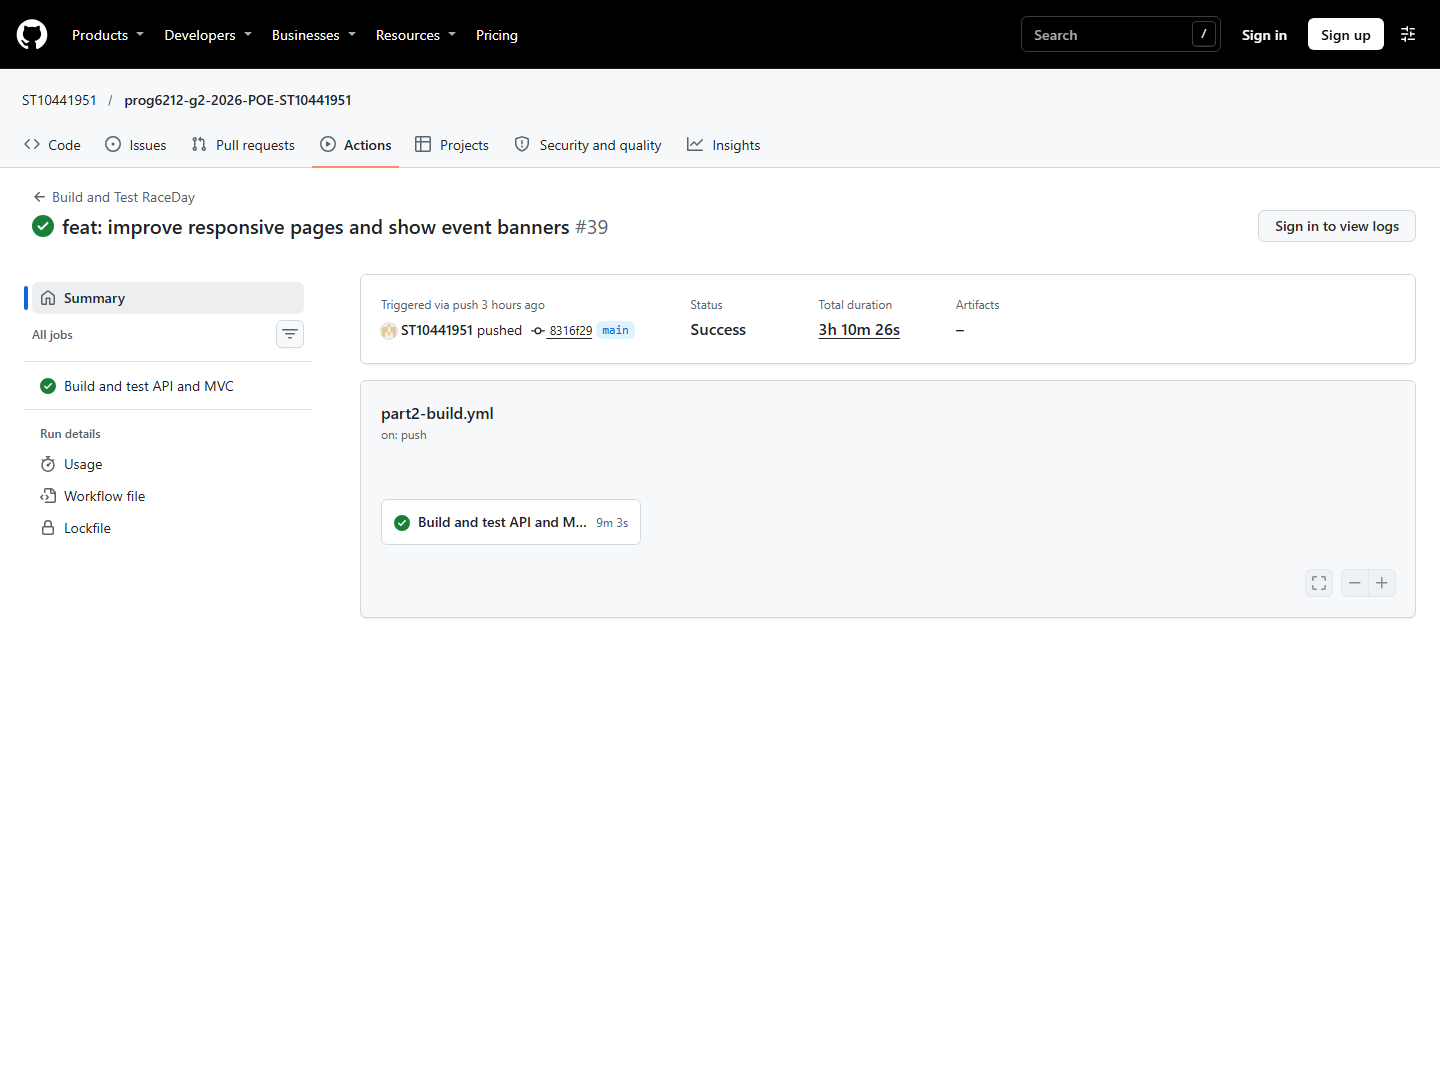
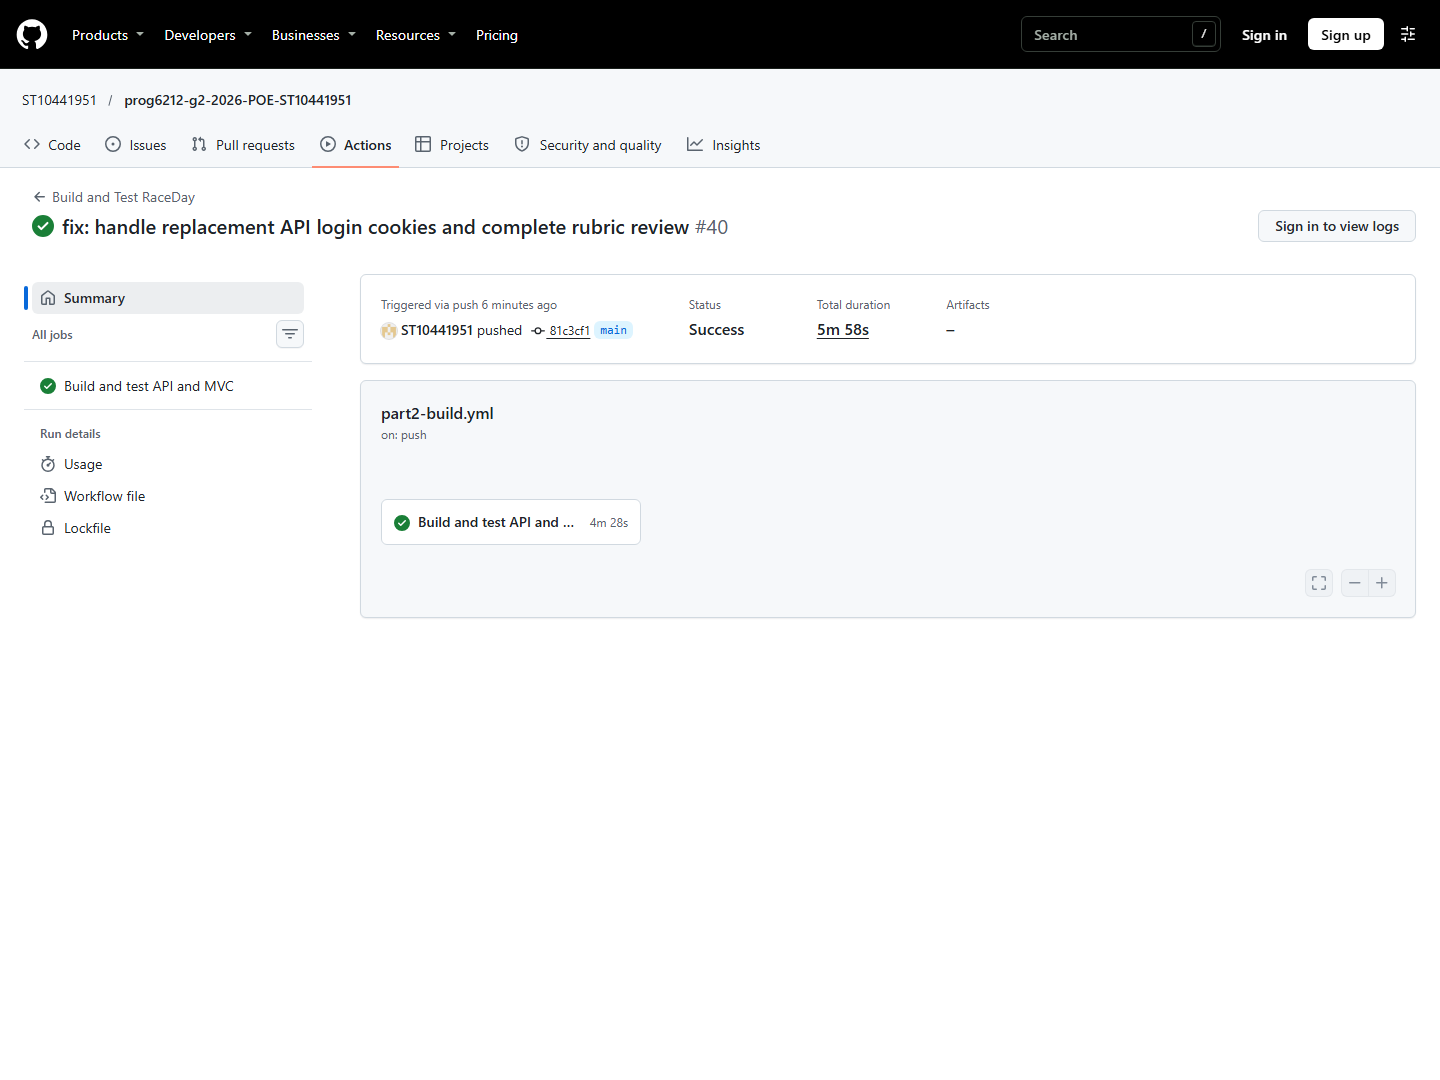
docs: record completed Part 3 checks and passing CI evidence

diff --git a/docs/Part-3-Review.md b/docs/Part-3-Review.md
@@ -1,13 +1,13 @@
 # RaceDay Part 3 - Rubric review
 
-Checked on 19 November 2026 against the supplied Part 3 questions and rubric (The Independent Institute of Education, 2026). Implementation and local checks are complete. Video and ARC submission remain open; the published corrections also require their GitHub checks.
+Checked on 19 November 2026 against the supplied Part 3 questions and rubric (The Independent Institute of Education, 2026). Implementation, tests and documentation are complete. Video and ARC submission remain open.
 
 ## 1. Rubric
 
 | Criterion | Marks | Result and evidence |
 |---|---:|---|
 | Correct submission | 5 | Separate API/MVC projects and preserved Part 1/2 READMEs. Setup, settings, Docker command and screenshots are documented. The Part 3 video link is still missing. |
-| GitHub and CI/CD | 10 | The corrections bring Part 3 to 20 meaningful commits. [Build/tests](https://github.com/ST10441951/prog6212-g2-2026-POE-ST10441951/actions/runs/44470243917) and [planning](https://github.com/ST10441951/prog6212-g2-2026-POE-ST10441951/actions/runs/44470243933) passed for `8316f29`; the published corrections require their own checks. |
+| GitHub and CI/CD | 10 | The minimum of 20 meaningful Part 3 commits is met. [Build/tests](https://github.com/ST10441951/prog6212-g2-2026-POE-ST10441951/actions/runs/44499288535) and [planning](https://github.com/ST10441951/prog6212-g2-2026-POE-ST10441951/actions/runs/44499288543) passed for `81c3cf1`, including the account-cookie correction. |
 | Authentication and navigation | 10 | Both roles register, sign in, retain server-side identity and sign out. Guests, wrong roles and other users' records are blocked. The account-switching correction passed locally and in Docker. See [accounts](Part-3-Accounts.md). |
 | Organiser interface | 15 | Dashboard totals, owned events, banners, categories/routes, enrolments, bibs and result capture/corrections work through the API. Saved changes were checked in SQL. |
 | Participant interface | 15 | Event filters/details, category selection, immediate entry, My entries, personal results, profile changes and pictures work through the API. |
@@ -18,7 +18,7 @@ Checked on 19 November 2026 against the supplied Part 3 questions and rubric (Th
 
 ## 2. Final checks
 
-The published build passed 810 API tests and 512 MVC tests, with none failed or skipped, zero build warnings/errors and no missing migration. The later account-cookie correction passes all 518 MVC tests locally. API source, database mappings and the Part 1/2 READMEs are unchanged.
+The published build passed 810 API tests and 518 MVC tests, with none failed or skipped, zero build warnings/errors and no missing migration. API source, database mappings and the Part 1/2 READMEs are unchanged.
 
 The final browser walkthrough passed 63 assertions across registration, event/category/route creation, banners, entry, bib assignment, cancellation/reactivation/deletion, profiles, password changes, images, completed-event results, corrections, private access and logout. Changes were checked against the real API and disposable SQL database. See the [recorded results](evidence/part3-review-checks.json), [saved entry](evidence/part3-review-saved-entry.png) and [personal result](evidence/part3-review-personal-result.png).
 
@@ -32,7 +32,6 @@ To test results without waiting for a future race, only the disposable fixture's
 
 ## 4. Still required
 
-- Verify the GitHub checks for the published corrections.
 - Record the Part 3 walkthrough, upload it as unlisted and add its working YouTube link to the README.
 - Submit the repository link on ARC and confirm submission.
 

diff --git a/README.md b/README.md
@@ -4,7 +4,7 @@
 
 RaceDay manages South African running, walking and cycling events. Part 3 adds an ASP.NET Core MVC website to the Part 2 API, with separate pages for Organisers and Participants, Azure image uploads and Docker (The Independent Institute of Education, 2026; Microsoft, 2026a).
 
-The MVC accounts, event pages, Participant entries/results, profiles, image uploads and Organiser management pages work through the API. The website also runs in Docker. Progress is recorded in the [Part 3 checklist](docs/Part-3-Requirements-Checklist.md).
+The MVC accounts, event pages, Participant entries/results, profiles, image uploads and Organiser management pages work through the API. The website also runs in Docker. Implementation and checks are complete; the video and ARC submission remain. See the [Part 3 checklist](docs/Part-3-Requirements-Checklist.md).
 
 Previous work: [Part 1 README](README-Part1.md) and [Part 2 README](README-Part2.md).
 
@@ -207,13 +207,13 @@ This is the local HTTP demonstration on Docker Desktop. The container runs MVC a
 
 The [build workflow](.github/workflows/part2-build.yml) now builds the API, MVC and both test projects. The [planning workflow](.github/workflows/part1-validation.yml) checks the planning files and required Part 3 files (GitHub, 2026).
 
-Both workflows passed for `8316f29` using temporary Windows runners on my PC: [build and tests](https://github.com/ST10441951/prog6212-g2-2026-POE-ST10441951/actions/runs/44470243917) and [planning validation](https://github.com/ST10441951/prog6212-g2-2026-POE-ST10441951/actions/runs/44470243933). The build ran 810 API tests and 512 MVC tests, with none failed or skipped. The migration check also passed.
+Both workflows passed for `81c3cf1` using temporary Windows runners on my PC: [build and tests](https://github.com/ST10441951/prog6212-g2-2026-POE-ST10441951/actions/runs/44499288535) and [planning validation](https://github.com/ST10441951/prog6212-g2-2026-POE-ST10441951/actions/runs/44499288543). The build ran 810 API tests and 518 MVC tests, with none failed or skipped. The migration check also passed.
 
 ![Passing GitHub build and tests](docs/evidence/part3-ci-build-success.png)
 
 The [planning screenshot](docs/evidence/part3-ci-planning-success.png) records the second green check. Earlier hosted jobs were blocked by an account billing issue. `RACEDAY_USE_LOCAL_RUNNER` selects the temporary local runner; each job needs a new registration and the PC online. No tests were skipped to obtain these results. See the [CI notes](docs/Part-3-CI.md).
 
-The linked build includes the interface changes and 512 MVC tests. The later account-cookie correction passes all 518 MVC tests locally; see the [rubric review](docs/Part-3-Review.md).
+The account-cookie correction is included in these passing checks. See the [rubric review](docs/Part-3-Review.md).
 
 ## Unit tests
 

diff --git a/docs/Part-3-CI.md b/docs/Part-3-CI.md
@@ -16,18 +16,18 @@ The machine needs Git, Node/npm, PowerShell 7, the .NET 10 SDK and SQL Server Lo
 
 The build workflow restores packages, builds the API/MVC solution, runs all tests and checks for missing migrations. It reuses an existing Azurite instance or starts one, waits for it to be ready and stops only the process started by that job. The planning workflow runs the C# document/schema checks.
 
-Both checks passed on 19 November 2026 for `8316f29`:
+Both checks passed on 19 November 2026 for `81c3cf1`:
 
 | Check | Result |
 |---|---|
-| [Build and test](https://github.com/ST10441951/prog6212-g2-2026-POE-ST10441951/actions/runs/44470243917) | 810 API and 512 MVC tests passed; zero build warnings/errors; no missing migration |
-| [Planning](https://github.com/ST10441951/prog6212-g2-2026-POE-ST10441951/actions/runs/44470243933) | File, endpoint, schema and document checks passed |
+| [Build and test](https://github.com/ST10441951/prog6212-g2-2026-POE-ST10441951/actions/runs/44499288535) | 810 API and 518 MVC tests passed; zero build warnings/errors; no missing migration |
+| [Planning](https://github.com/ST10441951/prog6212-g2-2026-POE-ST10441951/actions/runs/44499288543) | File, endpoint, schema and document checks passed |
 
 Evidence: [build success](evidence/part3-ci-build-success.png) and [planning success](evidence/part3-ci-planning-success.png). These are genuine GitHub pages. The temporary runners removed themselves after completing their jobs. Future local runs need new runner registrations and the PC online; the account's hosted-runner billing lock has not been changed.
 
 An earlier build for 80765dd timed out while creating a temporary SQL test database and passed unchanged on retry. The current revision passed on its first attempt, with all tests retained.
 
-The linked runs include the interface changes and 512 MVC tests. The later account-cookie correction passes 518 MVC tests locally and is described in the [rubric review](Part-3-Review.md).
+The account-cookie correction is included in these passing checks and is described in the [rubric review](Part-3-Review.md).
 
 ## References
 

diff --git a/docs/Part-3-MVC.md b/docs/Part-3-MVC.md
@@ -40,7 +40,7 @@ On 19 November 2026, all 518 MVC checks passed locally, with none failed or skip
 
 The home and detail pages passed browser checks at 320, 390, 768 and 1280 pixels without horizontal overflow. Combined filters, inclusive dates, paging and route details worked against an isolated real API/database. The [desktop](evidence/part3-event-finder-desktop.png) and [mobile](evidence/part3-event-finder-mobile.png) search screenshots use temporary paging fixtures and have no cursor overlay. Further details and screenshots are in the [event notes](Part-3-Events.md).
 
-Both GitHub workflows passed for `8316f29` using temporary Windows runners. That revision ran 810 API and 512 MVC tests. The later account-cookie correction passes 518 MVC tests locally. See the [rubric review](Part-3-Review.md), [CI notes](Part-3-CI.md) and [README](../README.md#cicd).
+Both GitHub workflows passed for `81c3cf1` using temporary Windows runners. That revision ran 810 API and 518 MVC tests. The account-cookie correction is included in that revision. See the [rubric review](Part-3-Review.md), [CI notes](Part-3-CI.md) and [README](../README.md#cicd).
 
 Run instructions and current results are in the [README](../README.md#setup-and-run).
 

diff --git a/docs/Part-3-Accounts.md b/docs/Part-3-Accounts.md
@@ -60,7 +60,7 @@ The home, account and role pages were checked at 320, 390, 768 and 1280 pixels w
 | Participant home | [Desktop](evidence/part3-participant-home.png) / [mobile](evidence/part3-participant-home-mobile.png) |
 | Wrong role | [Access denied](evidence/part3-access-denied.png) |
 
-The 810 API checks passed in GitHub on the same date; API source and database mappings are unchanged. Both checks for `8316f29` passed using temporary Windows runners. The current interface changes are included in that revision. See the [CI notes](Part-3-CI.md).
+The 810 API checks passed in GitHub on the same date; API source and database mappings are unchanged. Both checks for `81c3cf1` passed using temporary Windows runners. The current interface changes are included in that revision. See the [CI notes](Part-3-CI.md).
 
 ## References
 

diff --git a/docs/Part-3-Requirements-Checklist.md b/docs/Part-3-Requirements-Checklist.md
@@ -32,8 +32,8 @@ Based on the Part 3 requirements and marking rubric (The Independent Institute o
 - [x] Make at least 20 meaningful Part 3 commits using my GitHub account.
 - [x] Build MVC and the API in GitHub Actions.
 - [x] Retain the API tests and repository-structure checks.
-- [x] Run the committed API and MVC tests in CI; 810 API and 512 MVC tests passed for `8316f29`.
-- [ ] Confirm a green build for the final submitted revision.
+- [x] Run the committed API and MVC tests in CI; 810 API and 518 MVC tests passed for `81c3cf1`.
+- [x] Confirm a green build for the completed application.
 - [x] Add current green CI screenshots and working build links to the README.
 
 ## Authentication and role-based navigation: 10 marks
